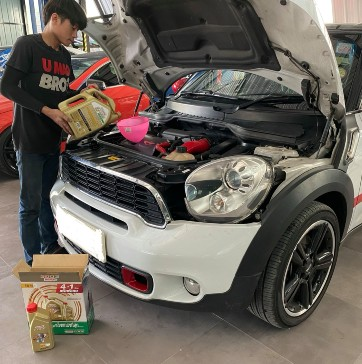
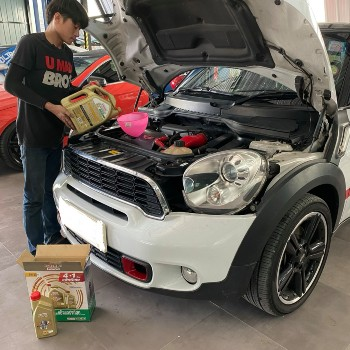
add service pictures

diff --git a/index.html b/index.html
@@ -5,7 +5,7 @@
         <meta http-equiv="X-UA-Compatible" content="IE=edge" />
         <meta http-equiv="X-UA-Compatible" content="ie=edge">
         <meta name="viewport" content="width=device-width, initial-scale=1.0">
-        <title>อู่ซ่อมมินิคูเปอร์ Mini Cooper BMW Benz Porsche Audi - Venom Garage 092-771-4177 | ผู้เชี่ยวชาญด้านซ่อมรถยนต์ยี่ห้อ Mini Cooper, BMW, Mercedes Benz,Porsche, Audi. ประสบการณ์ช่างมากกว่า 10 ปี</title>
+        <title>ศูนย์บริการซ่อมมินิคูเปอร์ Mini Cooper BMW Benz Porsche Audi - Venom Garage 092-771-4177 | ผู้เชี่ยวชาญด้านซ่อมรถยนต์ยี่ห้อ Mini Cooper, BMW, Mercedes Benz,Porsche, Audi. ประสบการณ์ช่างมากกว่า 10 ปี</title>
         <!-- favicon -->
         <link rel="shortcut icon" href="assets/img/favicon.png" type="image/x-icon">
         <!-- bootstrap css -->       
@@ -105,16 +105,14 @@
                                         <li class="dropdown">
                                             <a href="#" class="parent-link"> บริการของเรา </a>
                                             <ul class="dropdown-lists">
-                                                <li><a href="#services">ซ่อมระบบน้ำหล่อเย็นรถมินิ</a></li>
                                                 <li><a href="#services">ซ่อมเครื่องยนต์รถมินิ</a></li>
+                                                <li><a href="#services">ซ่อมระบบเกียร์รถมินิ</a></li>
+                                                <li><a href="#services">ซ่อมช่วงล่างรถมินิ</a></li>
+                                                <li><a href="#services">ซ่อมระบบน้ำหล่อเย็นรถมินิ</a></li>
                                             </ul>
                                         </li>
-                                        <li class="dropdown">
+                                        <li>
                                             <a href="#" class="parent-link"> ผลงานของเรา </a>
-                                            <ul class="dropdown-lists">
-                                                <li><a href="#projects">Projects</a></li>
-                                                <li><a href="#project-details">Project Details</a></li>
-                                            </ul>
                                         </li>
                                         <li><a href="#contact" class="parent-link"> ติดต่อเรา </a></li>
                                     </ul>
@@ -367,8 +365,8 @@
                             <h2>Comprehensive Warranty On All Work</h2>
                         </div>
                         <div class="warranty-txt">
-                            <p>What does that mean for you? Peace of Mind. Whether your vehicle needs an oil change, factory recommended maintenance, or a major repair, knowing you have a qualified. </p>
-                            <p>Auto flex mechanic to work on it means never having to worry if the work is done right. We pride ourselves on providing every customer with quality auto service at a fair price- GUARANTEED!</p>
+                            <p>ศูนย์บำรุงรักษารถยนต์ Venom Garage ( วีนอม การาจ) ผู้เชี่ยวชาญด้านซ่อมรถยนต์ยี่ห้อ Mini Cooper, BMW, Mercedes Benz,Porsche, Audi. ประสบการณ์ช่างมากกว่า 10 ปี ซ่อมระบบไฟฟ้ารถยนต์ โปรแกรม ระบบไฟฟ้า+coding กล่องควบคุม Online ระบบรถยนต์ ซ่อมเครื่องยนต์ เกียร์ เบรค คลัช ช่วงล่าง แร็คพวงมาลัย แอร์ กระจก เปลี่ยนถ่ายน้ำมันเครื่อง และของเหลวต่างๆ</p>
+                            <p></p>
                         </div>
                         <a href="contact.html" class="warranty-btn"><span>SCHEDULE A REPAIR</span></a>
                     </div>
@@ -441,6 +439,36 @@
                     <div class="col-lg-4 col-md-6">
                         <div class="single-vehicle">
                             <div class="img-wrapper"><img src="assets/img/service_3.jpg" alt=""></div>
+                            <div class="txt">
+                                <h3>2009 Acura MDX</h3>
+                                <p> Change oil and oil filter. Check air filter ( most cars ) . FILL Washer solvent </p>
+                            </div>
+                        </div>
+                    </div>
+                </div>
+                <br/>
+                <div class="row">
+                    <div class="col-lg-4 col-md-6">
+                        <div class="single-vehicle">
+                            <div class="img-wrapper"><img src="assets/img/service_4.jpg" alt=""></div>
+                            <div class="txt">
+                                <h3>2009 Acura MDX</h3>
+                                <p> Change oil and oil filter. Check air filter ( most cars ) . FILL Washer solvent </p>
+                            </div>
+                        </div>
+                    </div>
+                    <div class="col-lg-4 col-md-6">
+                        <div class="single-vehicle">
+                            <div class="img-wrapper"><img src="assets/img/service_5.jpg" alt=""></div>
+                            <div class="txt">
+                                <h3>2009 Acura MDX</h3>
+                                <p> Change oil and oil filter. Check air filter ( most cars ) . FILL Washer solvent </p>
+                            </div>
+                        </div>
+                    </div>
+                    <div class="col-lg-4 col-md-6">
+                        <div class="single-vehicle">
+                            <div class="img-wrapper"><img src="assets/img/service_6.jpg" alt=""></div>
                             <div class="txt">
                                 <h3>2009 Acura MDX</h3>
                                 <p> Change oil and oil filter. Check air filter ( most cars ) . FILL Washer solvent </p>
